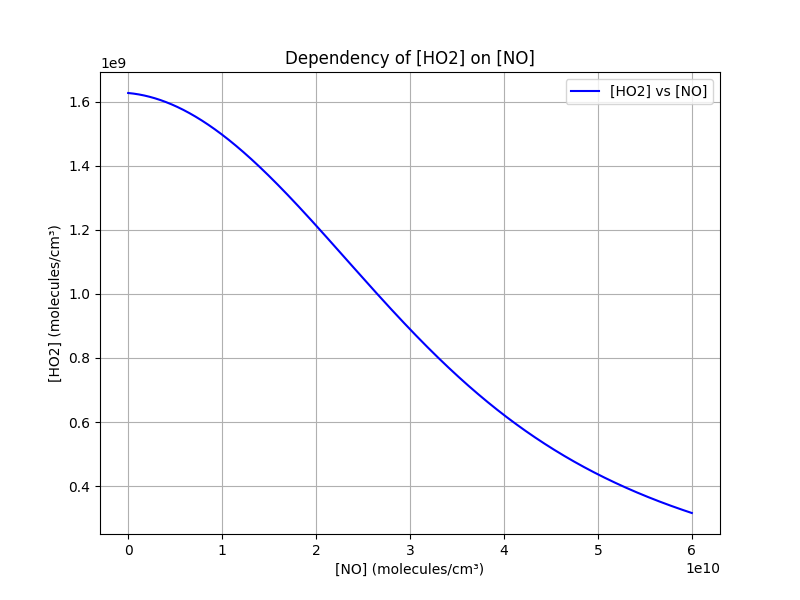
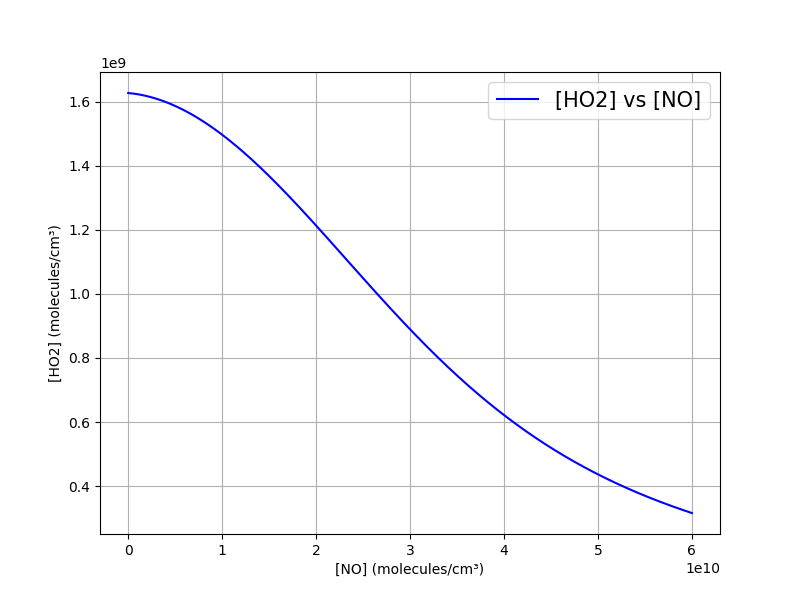
figureupdate

Changed region(s): [[0.625, 0.12, 0.9062, 0.21], [0.3438, 0.09, 0.6875, 0.12]]

diff --git a/Question3.py b/Question3.py
@@ -43,8 +43,8 @@ plt.figure(figsize=(8, 6))
 plt.plot(NO_range, HO2_values, label="[HO2] vs [NO]", color='b')
 plt.xlabel("[NO] (molecules/cm³)")
 plt.ylabel("[HO2] (molecules/cm³)")
-plt.title("Dependency of [HO2] on [NO]")
-plt.legend()
+#plt.title("Dependency of [HO2] on [NO]")
+plt.legend(fontsize=15)
 plt.grid(True)
 plt.savefig("HO2vsNO.png")
 #plt.show()
@@ -54,8 +54,8 @@ plt.figure(figsize=(8, 6))
 plt.plot(NO_range, PO3_values, label="PO3 vs [NO]", color='r')
 plt.xlabel("[NO] (molecules/cm³)")
 plt.ylabel("PO3 (molecules/cm³/s)")
-plt.title("Dependency of Ozone Production PO3 on [NO]")
-plt.legend()
+#plt.title("Dependency of Ozone Production PO3 on [NO]")
+plt.legend(fontsize=15)
 plt.grid(True)
 plt.savefig("P03vsNO.png")
 #plt.show()
@@ -105,7 +105,7 @@ plt.xscale("log")  # Log scale for NOx
 plt.xlabel("[NOx] (µg/m³)")
 plt.ylabel("[O3] (µg/m³)")
 plt.title("Scatter Plot of [O3] vs. [NOx] for Different Stations")
-plt.legend(fontsize=12)
+plt.legend(fontsize=15)
 plt.xlim(1, 100)
 plt.ylim(0, 180)
 plt.grid(True)
